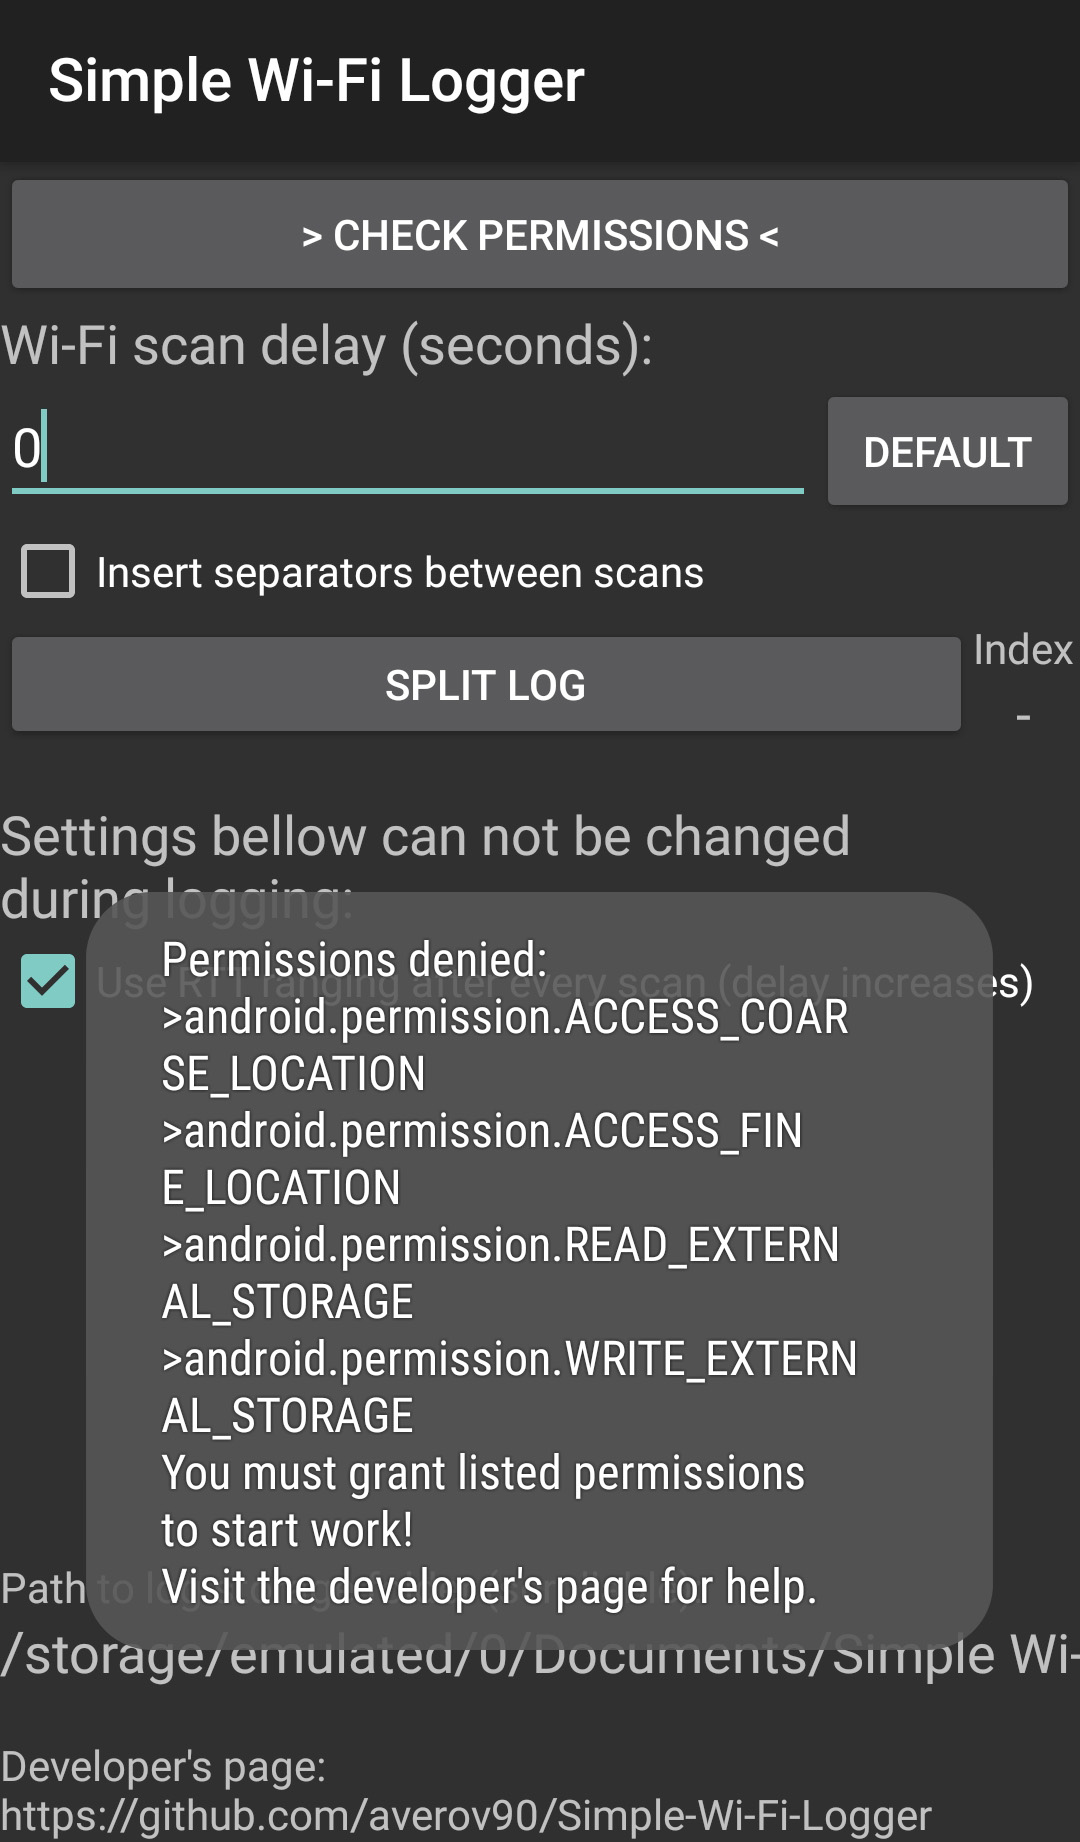
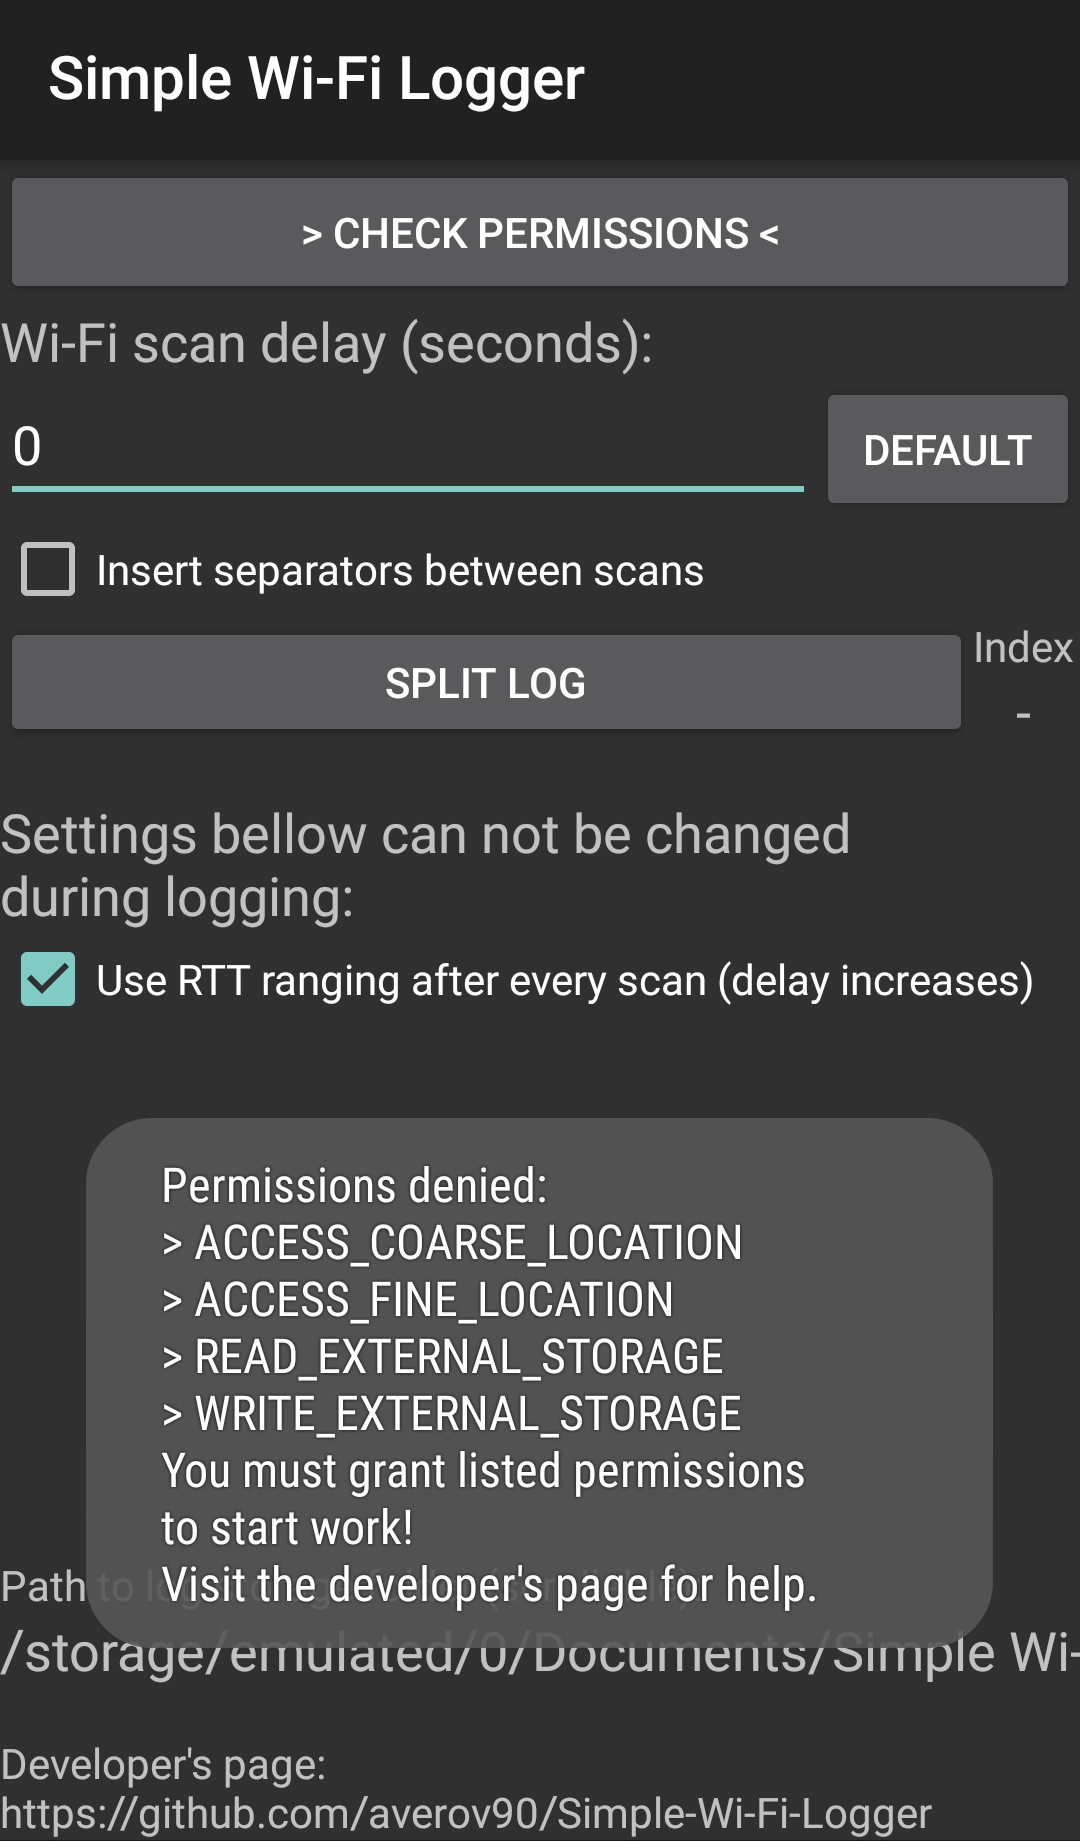
error msg text improved

diff --git a/Simple Wi-Fi Logger/MainActivity.cs b/Simple Wi-Fi Logger/MainActivity.cs
@@ -244,7 +244,7 @@ namespace Simple_Wi_Fi_Logger {
                 string res = "Permissions denied:";
                 for (int i = 0; i < permissions.Length; ++i) {
                     if (grantResults[i] == Permission.Denied)
-                        res += "\n>" + permissions[i];
+                        res += "\n> " + permissions[i].Substring(permissions[i].LastIndexOf('.') + 1);
                 }
                 res += "\nYou must grant listed permissions to start work!\nVisit the developer's page for help.";
 

diff --git a/README.md b/README.md
@@ -1,5 +1,5 @@
 # Simple Wi-Fi Logger
-[![License](https://img.shields.io/badge/LICENSE-GPL%20v3.0-green?style=flat-square)](/LICENSE)  [![Version](https://img.shields.io/badge/VERSION-RELEASE%20--%201.0-green?style=flat-square)](https://github.com/averov90/Simple-Wi-Fi-Logger/releases)
+[![License](https://img.shields.io/badge/LICENSE-GPL%20v3.0-green?style=flat-square)](/LICENSE)  [![Version](https://img.shields.io/badge/VERSION-RELEASE%20--%201.1-green?style=flat-square)](https://github.com/averov90/Simple-Wi-Fi-Logger/releases)
 ### :small_orange_diamond: [English version](/README-eng.md)
 
 Данная программа представляет из себя инструмент захвата и сохранения списка точек доступа Wi-Fi, видимых устройством с операционной системой Android 5.0 - 11.0+.
@@ -61,17 +61,17 @@
 ### Решение проблем
 Если вы столкнулись с сообщением об ошибке, похожим на то, что изображено на скриншоте ниже, в этом разделе находится решение проблемы.
 
-<img src="https://github.com/averov90/Simple-Wi-Fi-Logger/raw/master/screenshot_error.jpg" width="192" alt="Скриншот окна программы с ошибкой">
+<img src="https://github.com/averov90/Simple-Wi-Fi-Logger/raw/master/screenshot_error.jpg" width="256" alt="Скриншот окна программы с ошибкой">
 
 Чтобы приложение работало, вам необходимо предоставить ему некоторые разрешения, такие как доступ к хранилищу (SD-карте), а также местоположение. Программа никуда не передает эти данные - вы можете в этом убедиться. *Если вам нужно убрать данные местоположения из лога, вы можете это сделать на этапе дальнейшей обработки лога (программой-парсером).*
 
-Если некоторые разрешения не предоставлены, вы увидите всплывающее сообщение, как на одном из скриншотов. В появившемся сообщении будут перечислены все разрешения, необходимые для выполнения операции, а именно:
+Если некоторые разрешения не предоставлены, вы увидите всплывающее сообщение, как на скриншоте выше. В появившемся сообщении будут перечислены все разрешения, необходимые для работы программы, а именно:
 
-1. android.permission.READ_EXTERNAL_STORAGE
-2. android.permission.WRITE_EXTERNAL_STORAGE
-3. android.permission.ACCESS_COARSE_LOCATION
-4. android.permission.ACCESS_FINE_LOCATION
-5. android.permission.ACCESS_BACKGROUND_LOCATION
+1. READ_EXTERNAL_STORAGE
+2. WRITE_EXTERNAL_STORAGE
+3. ACCESS_COARSE_LOCATION
+4. ACCESS_FINE_LOCATION
+5. ACCESS_BACKGROUND_LOCATION
 
 Если вы видите сообщение 1 или 2, вам необходимо предоставить программе доступ к хранилищу. Если вы видите сообщения 3 или 4, вам необходимо предоставить программе доступ к местоположению. Если вы видите сообщение 5, вам необходимо дать программе разрешение на доступ к местоположению в фоновом режиме.
 

diff --git a/README-eng.md b/README-eng.md
@@ -1,5 +1,5 @@
 # Simple Wi-Fi Logger
-[![License](https://img.shields.io/badge/LICENSE-GPL%20v3.0-green?style=flat-square)](/LICENSE)  [![Version](https://img.shields.io/badge/VERSION-RELEASE%20--%201.0-green?style=flat-square)](https://github.com/averov90/Simple-Wi-Fi-Logger/releases)
+[![License](https://img.shields.io/badge/LICENSE-GPL%20v3.0-green?style=flat-square)](/LICENSE)  [![Version](https://img.shields.io/badge/VERSION-RELEASE%20--%201.1-green?style=flat-square)](https://github.com/averov90/Simple-Wi-Fi-Logger/releases)
 ### :small_orange_diamond: [Русская версия](/README.md)
 
 This program is a tool for capturing and saving a list of Wi-Fi access points visible by a device running Android 5.0 - 11.0+.
@@ -61,17 +61,17 @@ It is important to understand that scanning for available networks does not occu
 ### Troubleshooting
 If you encounter an error message similar to the one shown in the screenshot below, this section provides a solution to the problem.
 
-<img src="https://github.com/averov90/Simple-Wi-Fi-Logger/raw/master/screenshot_error.jpg" width="192" alt = "Screenshot of the program window with a error">
+<img src="https://github.com/averov90/Simple-Wi-Fi-Logger/raw/master/screenshot_error.jpg" width="256" alt = "Screenshot of the program window with a error">
 
 For the application to work, you need to give it some permissions, such as access to storage (SD card) as well as location. The program does not transfer this data anywhere - you can be sure of this since its source code is open. *If you need to remove location data from the log, you can do this at the stage of further processing the log (with a parser program).*
 
-If some of the permissions are not granted, you will see a pop-up message like in one of the screenshots. The message that appears will list all the permissions necessary for the operation, namely:
+If some of the permissions are not granted, you will see a pop-up message like in the screenshot above. The message that appears will list all the permissions necessary for the operation, namely:
 
-1. android.permission.READ_EXTERNAL_STORAGE
-2. android.permission.WRITE_EXTERNAL_STORAGE
-3. android.permission.ACCESS_COARSE_LOCATION
-4. android.permission.ACCESS_FINE_LOCATION
-5. android.permission.ACCESS_BACKGROUND_LOCATION
+1. READ_EXTERNAL_STORAGE
+2. WRITE_EXTERNAL_STORAGE
+3. ACCESS_COARSE_LOCATION
+4. ACCESS_FINE_LOCATION
+5. ACCESS_BACKGROUND_LOCATION
 
 If you see message 1 or 2, you need to grant the program access to the storage (SD card). If you see messages 3 or 4, you need to give the program access to the location. If you see message 5, you need to give the program permission to locate the device in background.
 
